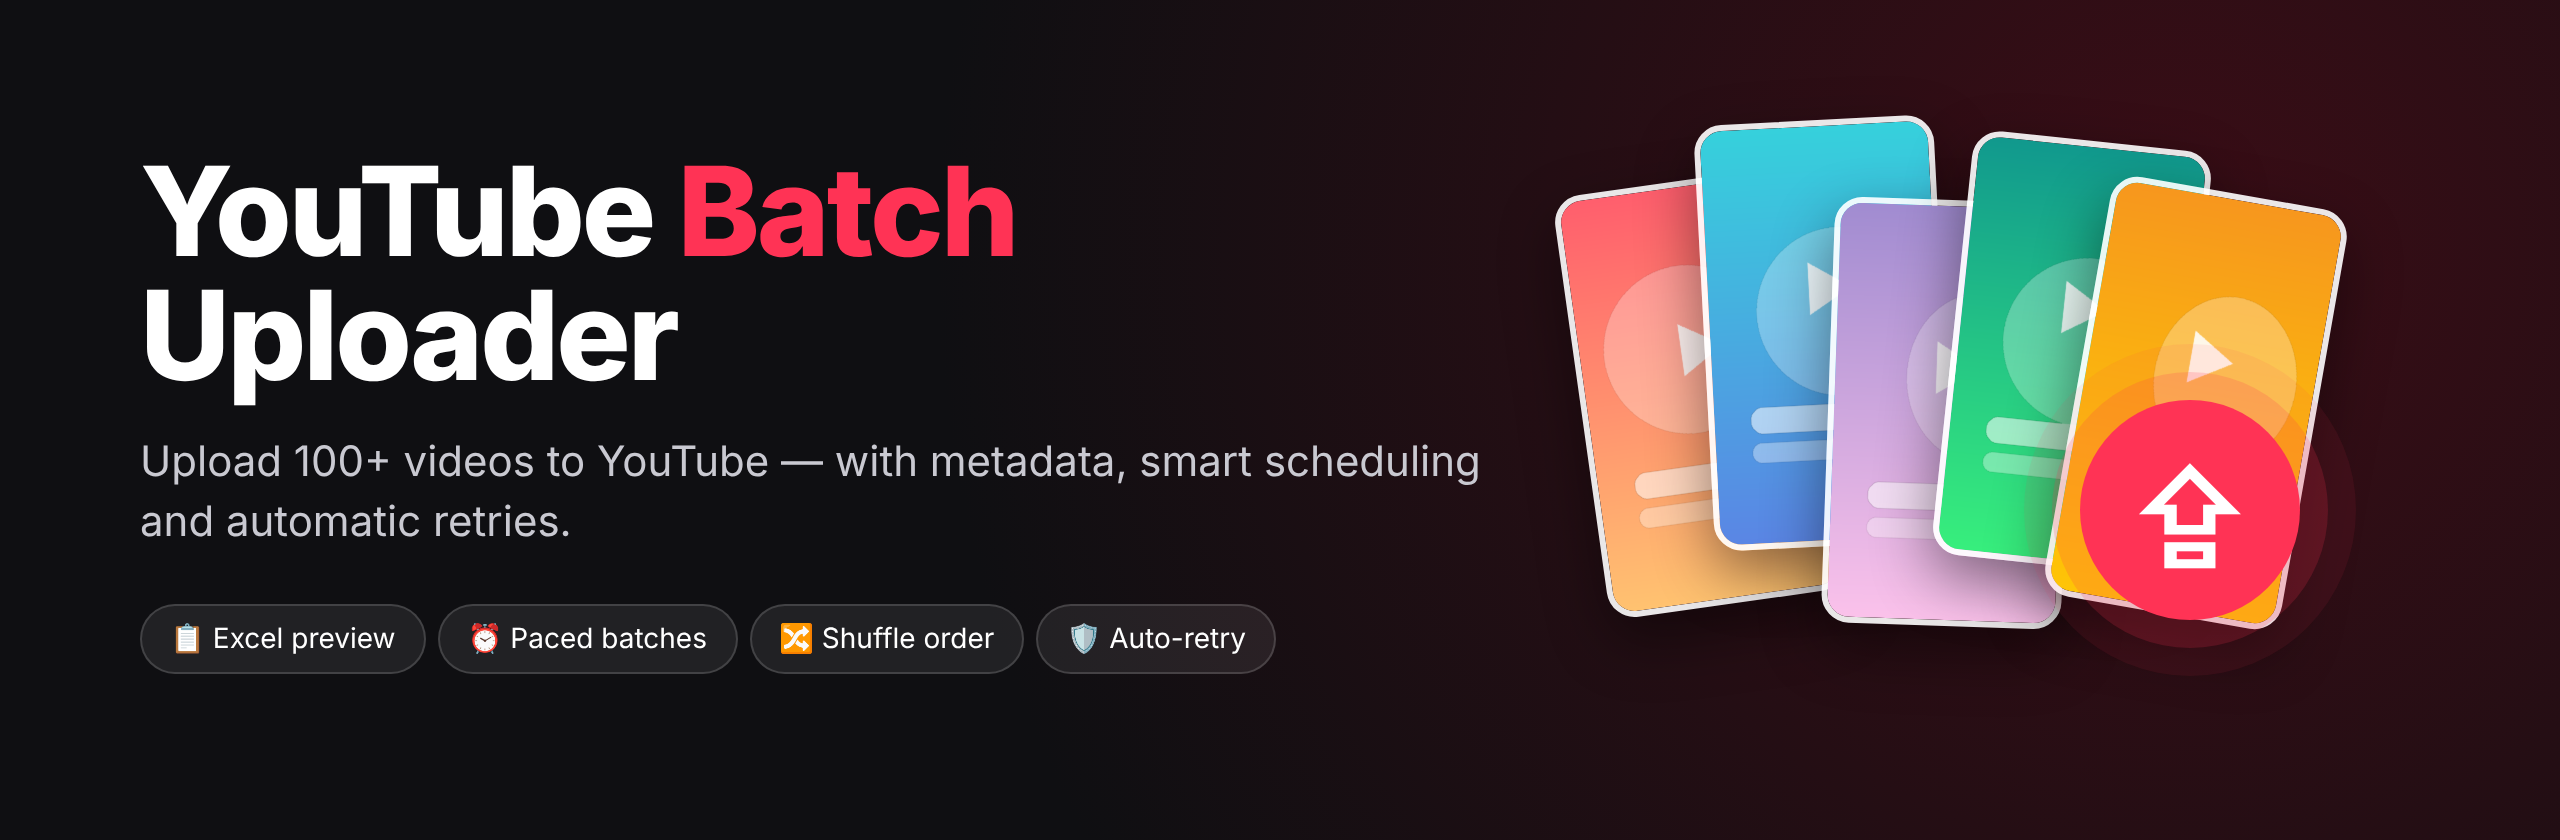
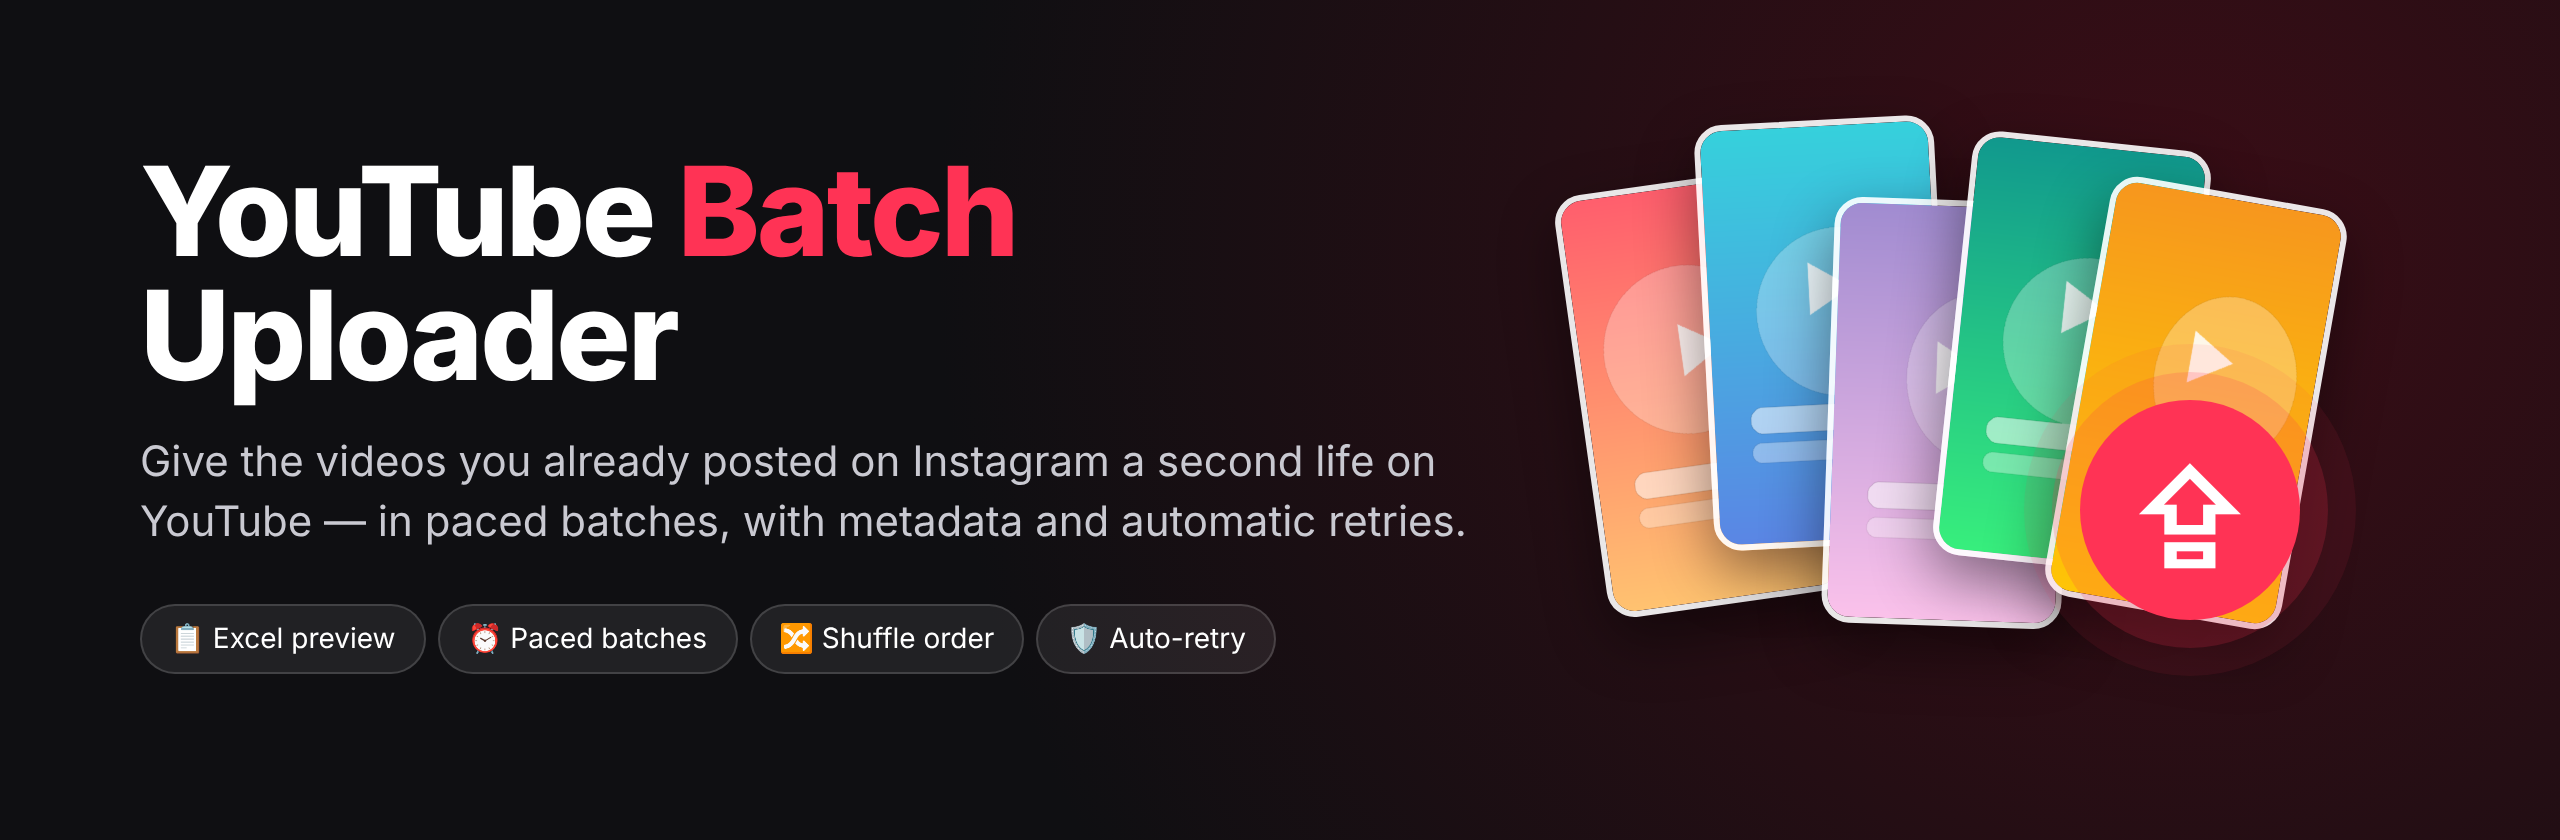
Docs: add step 0 — download your Instagram videos (EN/ES)
- Frame the project around reusing content already published on Instagram
- New step 0 with the Ultra Downloader Chrome extension and single-folder setup
- Updated banner and workflow images with the new step

Claude-Session: https://claude.ai/code/session_019jg6n6fErG3E5xSQ7n2gE9

Changed region(s): [[0.0625, 0.5262, 0.5938, 0.65]]

diff --git a/README.es.md b/README.es.md
@@ -15,7 +15,8 @@
 
 <p align="center">
   <b>Deja de subir videos uno por uno.</b><br>
-  Convierte una carpeta de videos en subidas a YouTube espaciadas y 100% programadas — con vista previa en Excel, orden aleatorio y reintentos automáticos.
+  Dale una segunda vida en YouTube a los Reels y videos que ya publicaste en Instagram.<br>
+  Descárgalos, revísalos en un Excel visual y deja que Claude los suba en lotes espaciados — con orden aleatorio y reintentos automáticos.
 </p>
 
 ---
@@ -24,6 +25,7 @@
 
 | Característica | Por qué importa |
 |---|---|
+| 📲 **Reutiliza tu contenido de Instagram** | Convierte los Reels que ya publicaste en videos de YouTube, sin grabar nada nuevo |
 | 📋 **Excel con miniaturas** | Ves cada video antes de publicarlo y escribes títulos/descripciones en un solo lugar |
 | ⏰ **Lotes espaciados** | Por ejemplo, 3 videos cada 30 minutos, en vez de 100 de golpe |
 | 🔀 **Orden secuencial o aleatorio** | El aleatorio evita que tu canal parezca un "batch dump" |
@@ -33,7 +35,7 @@
 
 ## 🎯 Ideal para
 
-🎙 **Podcasters** · 🎬 **Creadores de Reels / TikTok** · 🎓 **Creadores de cursos** · 📺 **Streamers** · 📸 **Bancos de stock footage**
+📲 **Creadores de Instagram que quieren reutilizar sus Reels** · 🎙 **Podcasters** · 🎬 **Creadores de Reels / TikTok** · 🎓 **Creadores de cursos** · 📺 **Streamers** · 📸 **Bancos de stock footage**
 
 Guías paso a paso (en inglés): [Podcasters](examples/PODCASTERS.md) · [Creadores de Reels](examples/REELS_CREATORS.md) · [Creadores de cursos](examples/COURSE_CREATORS.md)
 
@@ -55,6 +57,20 @@ Guías paso a paso (en inglés): [Podcasters](examples/PODCASTERS.md) · [Creado
 - macOS (las miniaturas se generan con Quick Look)
 - Un canal de YouTube
 - Claude con el **MCP de YouTube Studio** conectado
+
+### 0⃣ Descarga tus videos de Instagram *(sáltalo si ya tienes los archivos)*
+
+La idea de esta herramienta es reutilizar lo que **ya publicaste**. Si tus videos solo están en Instagram, descárgalos primero:
+
+1. En **Chrome**, instala la extensión **[Ultra Downloader para Instagram](https://chromewebstore.google.com/detail/inekcncapjijgfjjlkadkmdgfoekcilb)**.
+
+   <img src="docs/images/ig-extension.png" alt="Extensión Ultra Downloader para IG activada en Chrome" width="440">
+
+2. Abre [instagram.com](https://www.instagram.com) en Chrome, inicia sesión y entra a tu perfil.
+3. Haz clic en el botón **Ultra** del menú de Instagram y elige la descarga masiva **solo de videos / Reels** (sin fotos). La extensión lo empaqueta todo en un `.zip`.
+4. Descomprímelo y mueve **solo los archivos `.mp4`** a **una sola carpeta**, por ejemplo `~/Videos/reels`. Esa carpeta es la que usarás en todos los pasos siguientes.
+
+> ⚠ Descarga solo contenido tuyo o que tengas derecho a republicar. La extensión es de terceros y no tiene relación con Instagram ni con este proyecto.
 
 ### 1⃣ Instalar
 

diff --git a/README.md b/README.md
@@ -15,7 +15,8 @@
 
 <p align="center">
   <b>Stop uploading videos one by one.</b><br>
-  Turn a folder of videos into a paced, fully scheduled YouTube upload — with a visual Excel preview, shuffle order and automatic retries.
+  Give the Reels and videos you already published on Instagram a second life on YouTube.<br>
+  Download them, review them in a visual Excel sheet, and let Claude upload them in paced batches — with shuffle order and automatic retries.
 </p>
 
 ---
@@ -24,6 +25,7 @@
 
 | Feature | Why it matters |
 |---|---|
+| 📲 **Reuse your Instagram content** | Turn the Reels you already published into YouTube videos — no new filming needed |
 | 📋 **Excel preview with thumbnails** | See every video before it goes live and type titles/descriptions in one place |
 | ⏰ **Paced batches** | e.g. 3 videos every 30 minutes, instead of 100 at once |
 | 🔀 **Sequential or shuffled order** | Shuffle so your channel doesn't look like a "batch dump" |
@@ -33,7 +35,7 @@
 
 ## 🎯 Perfect for
 
-🎙 **Podcasters** · 🎬 **Reels / TikTok creators** · 🎓 **Course creators** · 📺 **Streamers** · 📸 **Stock footage libraries**
+📲 **Instagram creators repurposing their Reels** · 🎙 **Podcasters** · 🎬 **Reels / TikTok creators** · 🎓 **Course creators** · 📺 **Streamers** · 📸 **Stock footage libraries**
 
 Step-by-step guides: [Podcasters](examples/PODCASTERS.md) · [Reels creators](examples/REELS_CREATORS.md) · [Course creators](examples/COURSE_CREATORS.md)
 
@@ -55,6 +57,20 @@ Step-by-step guides: [Podcasters](examples/PODCASTERS.md) · [Reels creators](ex
 - macOS (thumbnails are generated with Quick Look)
 - A YouTube channel
 - Claude with the **YouTube Studio MCP** connected
+
+### 0⃣ Download your Instagram videos *(skip if you already have the files)*
+
+The point of this tool is to reuse what you've **already published**. If your videos only live on Instagram, download them first:
+
+1. In **Chrome**, install the **[Ultra Downloader for Instagram](https://chromewebstore.google.com/detail/inekcncapjijgfjjlkadkmdgfoekcilb)** extension.
+
+   <img src="docs/images/ig-extension.png" alt="Ultra Downloader for Instagram extension enabled in Chrome" width="440">
+
+2. Open [instagram.com](https://www.instagram.com) in Chrome, log in, and go to your profile.
+3. Click the **Ultra** button in Instagram's menu and choose the bulk download option for **videos / Reels only** (no photos). The extension packs everything into a `.zip`.
+4. Unzip it and move **only the `.mp4` files** into **one single folder**, e.g. `~/Videos/reels`. That folder is what you'll use in every step below.
+
+> ⚠ Only download content you own or have the rights to republish. The extension is a third-party tool, not affiliated with Instagram or this project.
 
 ### 1⃣ Install
 

diff --git a/SCREENSHOTS.md b/SCREENSHOTS.md
@@ -4,6 +4,7 @@ Visual walkthrough of YouTube Batch Uploader in action. · 🇪🇸 [Ver en espa
 
 | | |
 |---|---|
+| **Step 0: Instagram download extension** | <img src="docs/images/ig-extension.png" width="440"> |
 | **How it works** | <img src="docs/images/workflow-en.png" width="600"> |
 | **Preview spreadsheet** | <img src="docs/images/spreadsheet-en.png" width="600"> |
 | **Script output** | <img src="docs/images/terminal.png" width="600"> |
